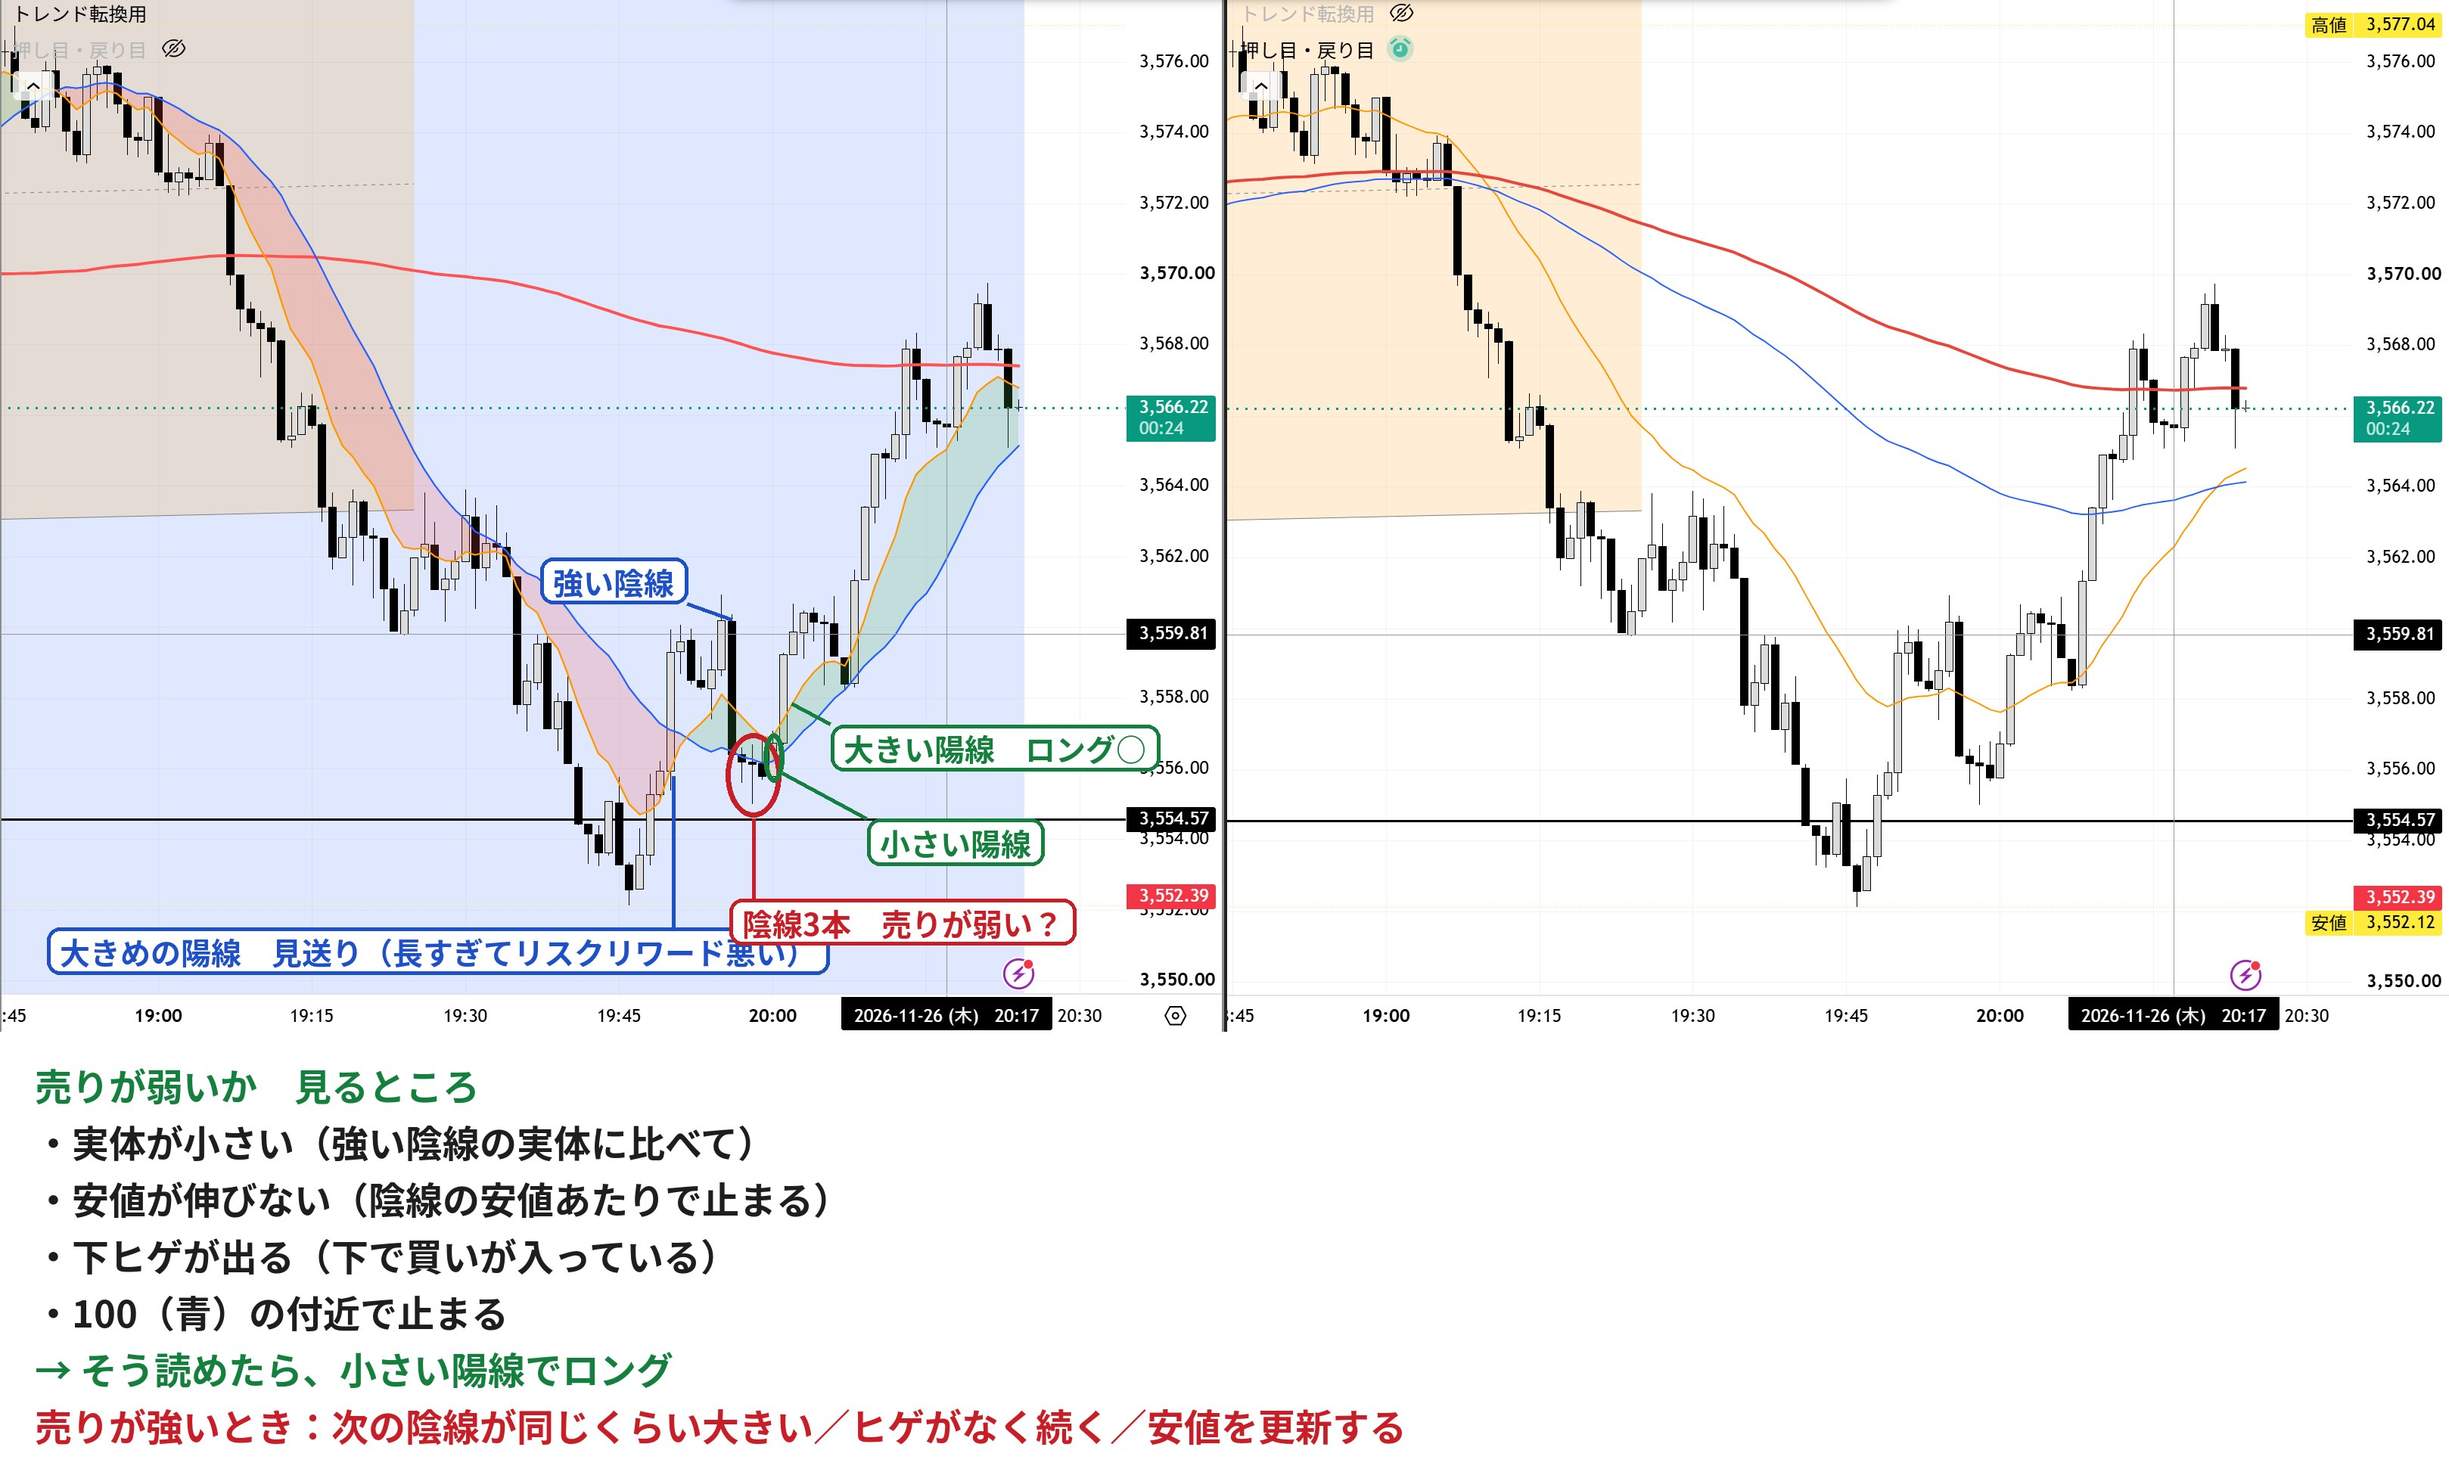
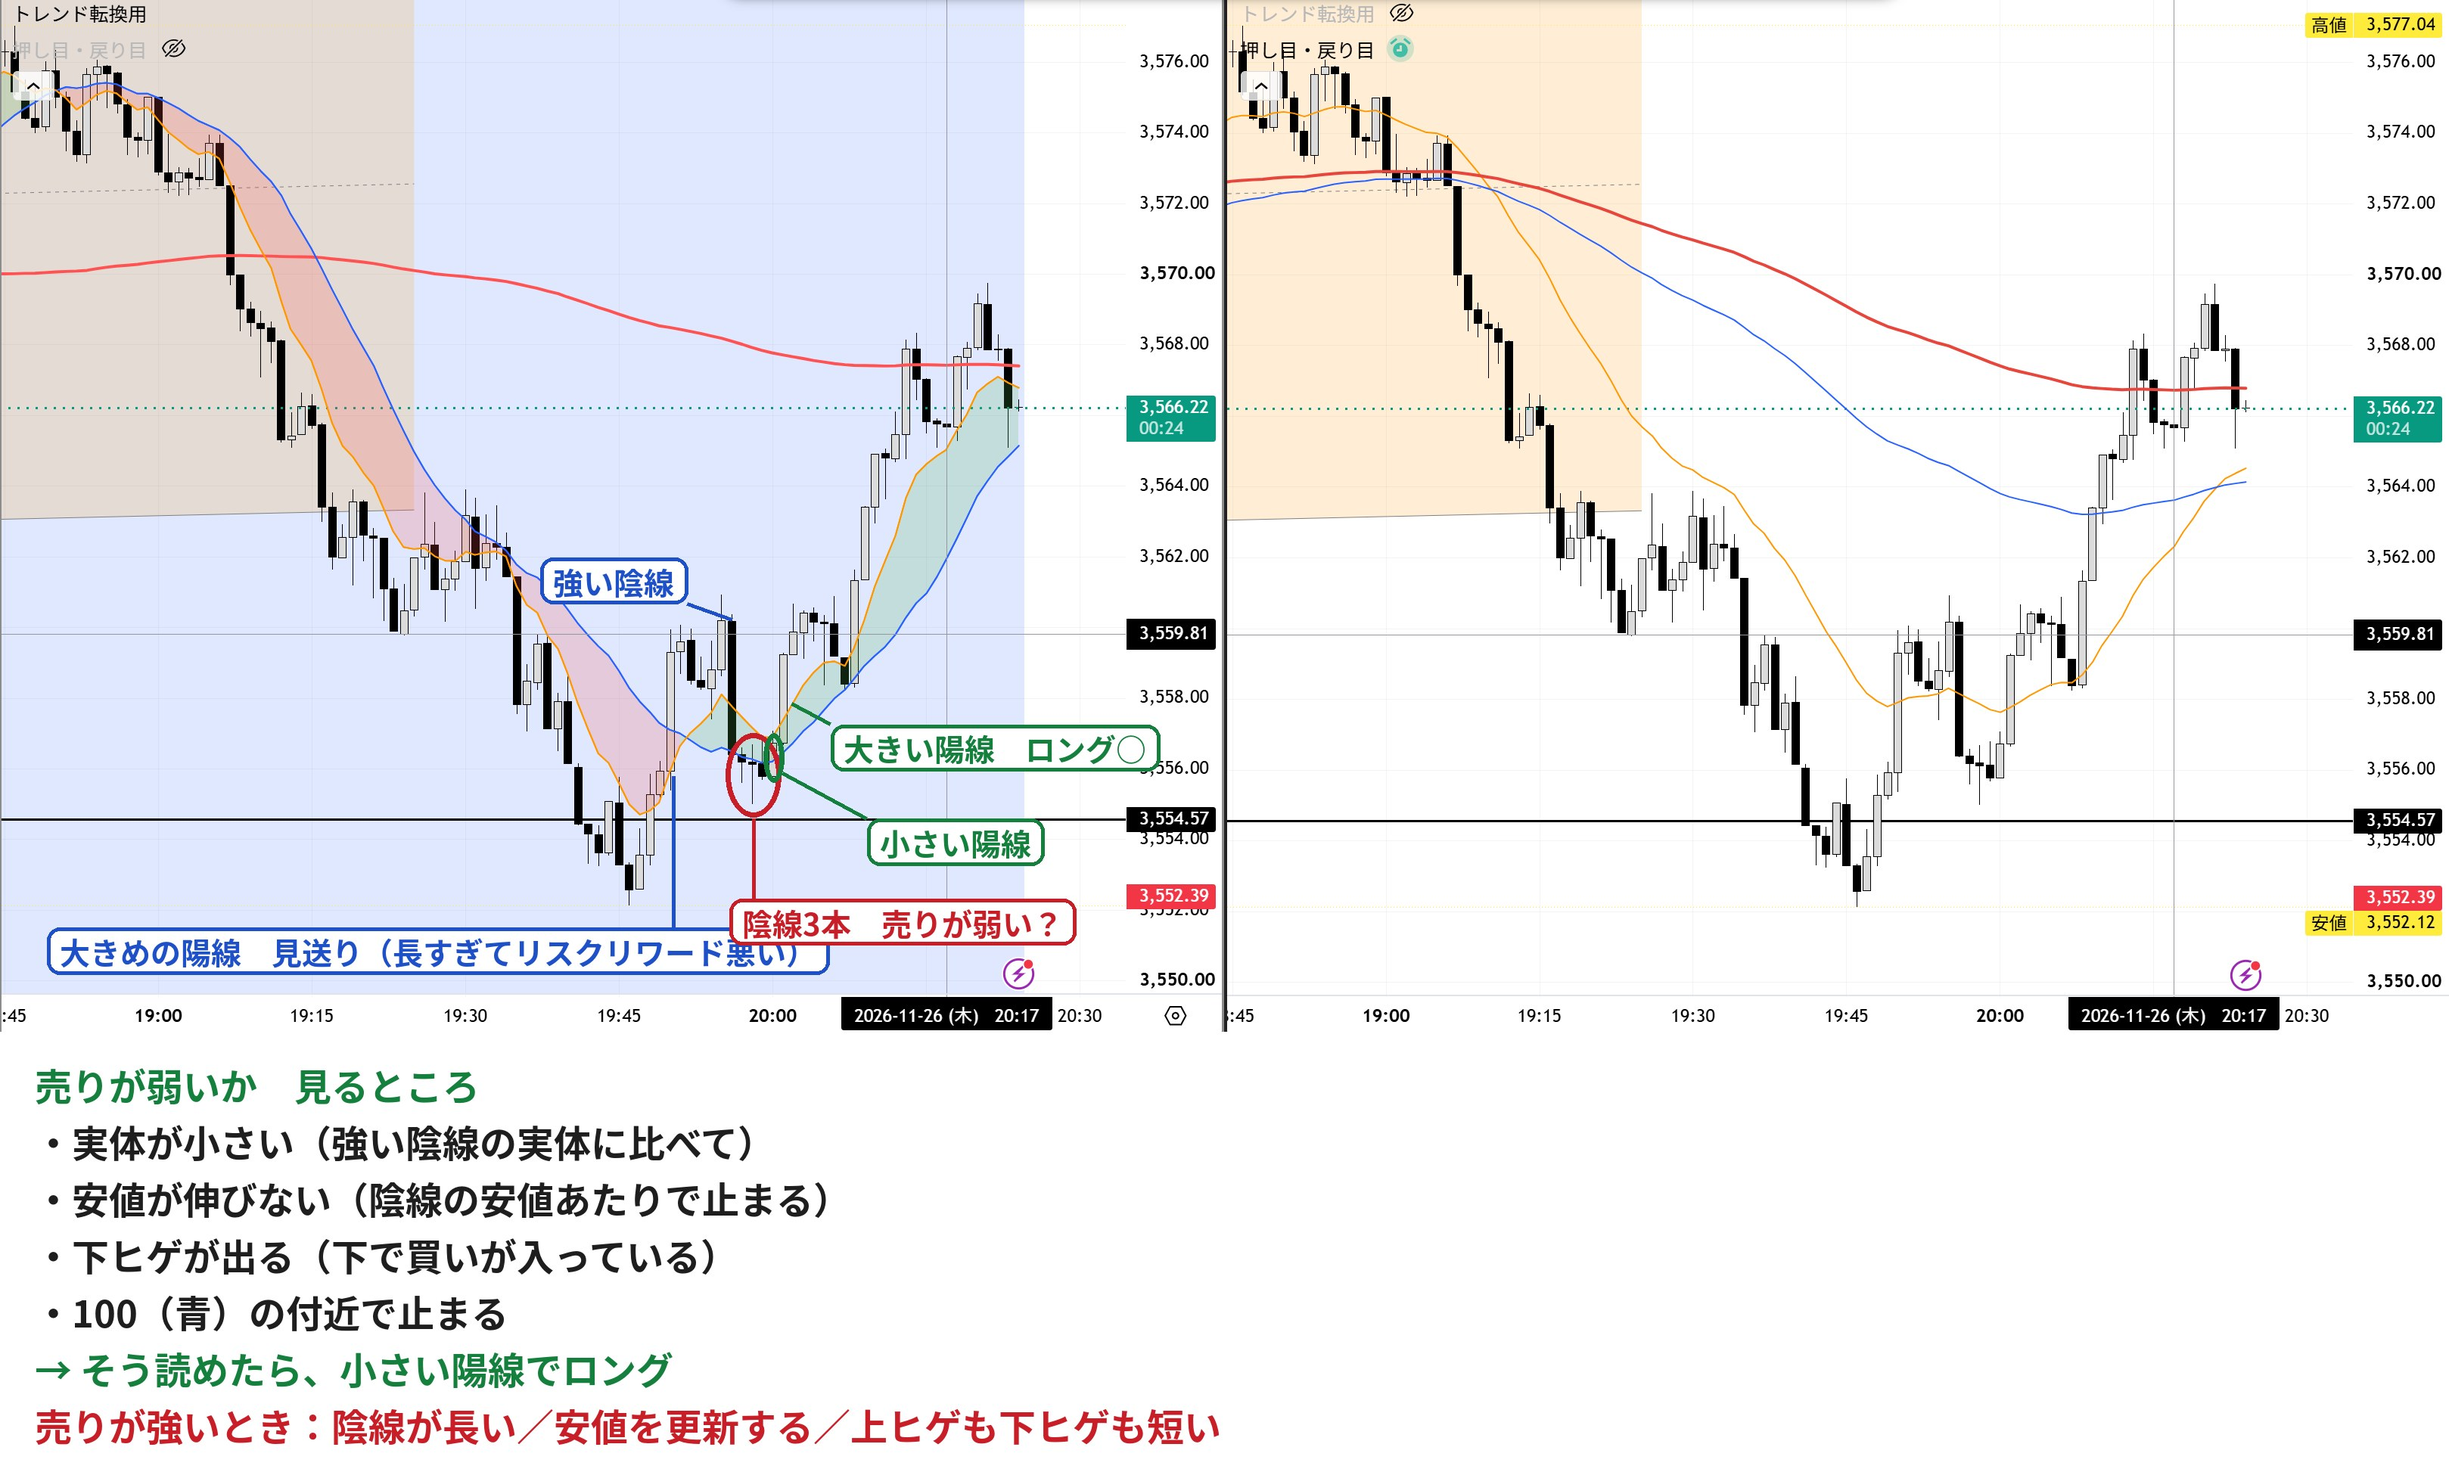
例39: 売りが強い/弱いの絵を追加、写真の文を修正
Claude-Session: https://claude.ai/code/session_01HxS9YaEfLR2yPnioVsHz63

Changed region(s): [[0.1248, 0.9558, 0.5928, 0.9866]]

diff --git a/reversal.html b/reversal.html
@@ -135,6 +135,9 @@ body.lb-open { overflow: hidden; }
     <figure class="pic wide">
       <a href="methods/uri-yowai-1m.jpg"><img src="methods/uri-yowai-1m.jpg" alt="1分足。大きめの陽線は見送り。強い陰線のあと陰線3本、小さい陽線でロングに入れた" loading="lazy"></a>
     </figure>
+    <figure class="pic wide">
+      <a href="methods/uri-yowai-zu.png"><img src="methods/uri-yowai-zu.png" alt="絵。売りが強いときと、弱いときのローソク足" loading="lazy"></a>
+    </figure>
     <ul class="cap3"><li>大きめの陽線は、長すぎてリスクリワードが悪いので見送った。</li><li>そのあと強い陰線が出て、どうするか迷った。</li><li>陰線3本のあと小さい陽線。売りが弱いと判断できていたら、ここでロングに入れた。</li></ul>
   </section>
   <section class="card big" id="ex38">
